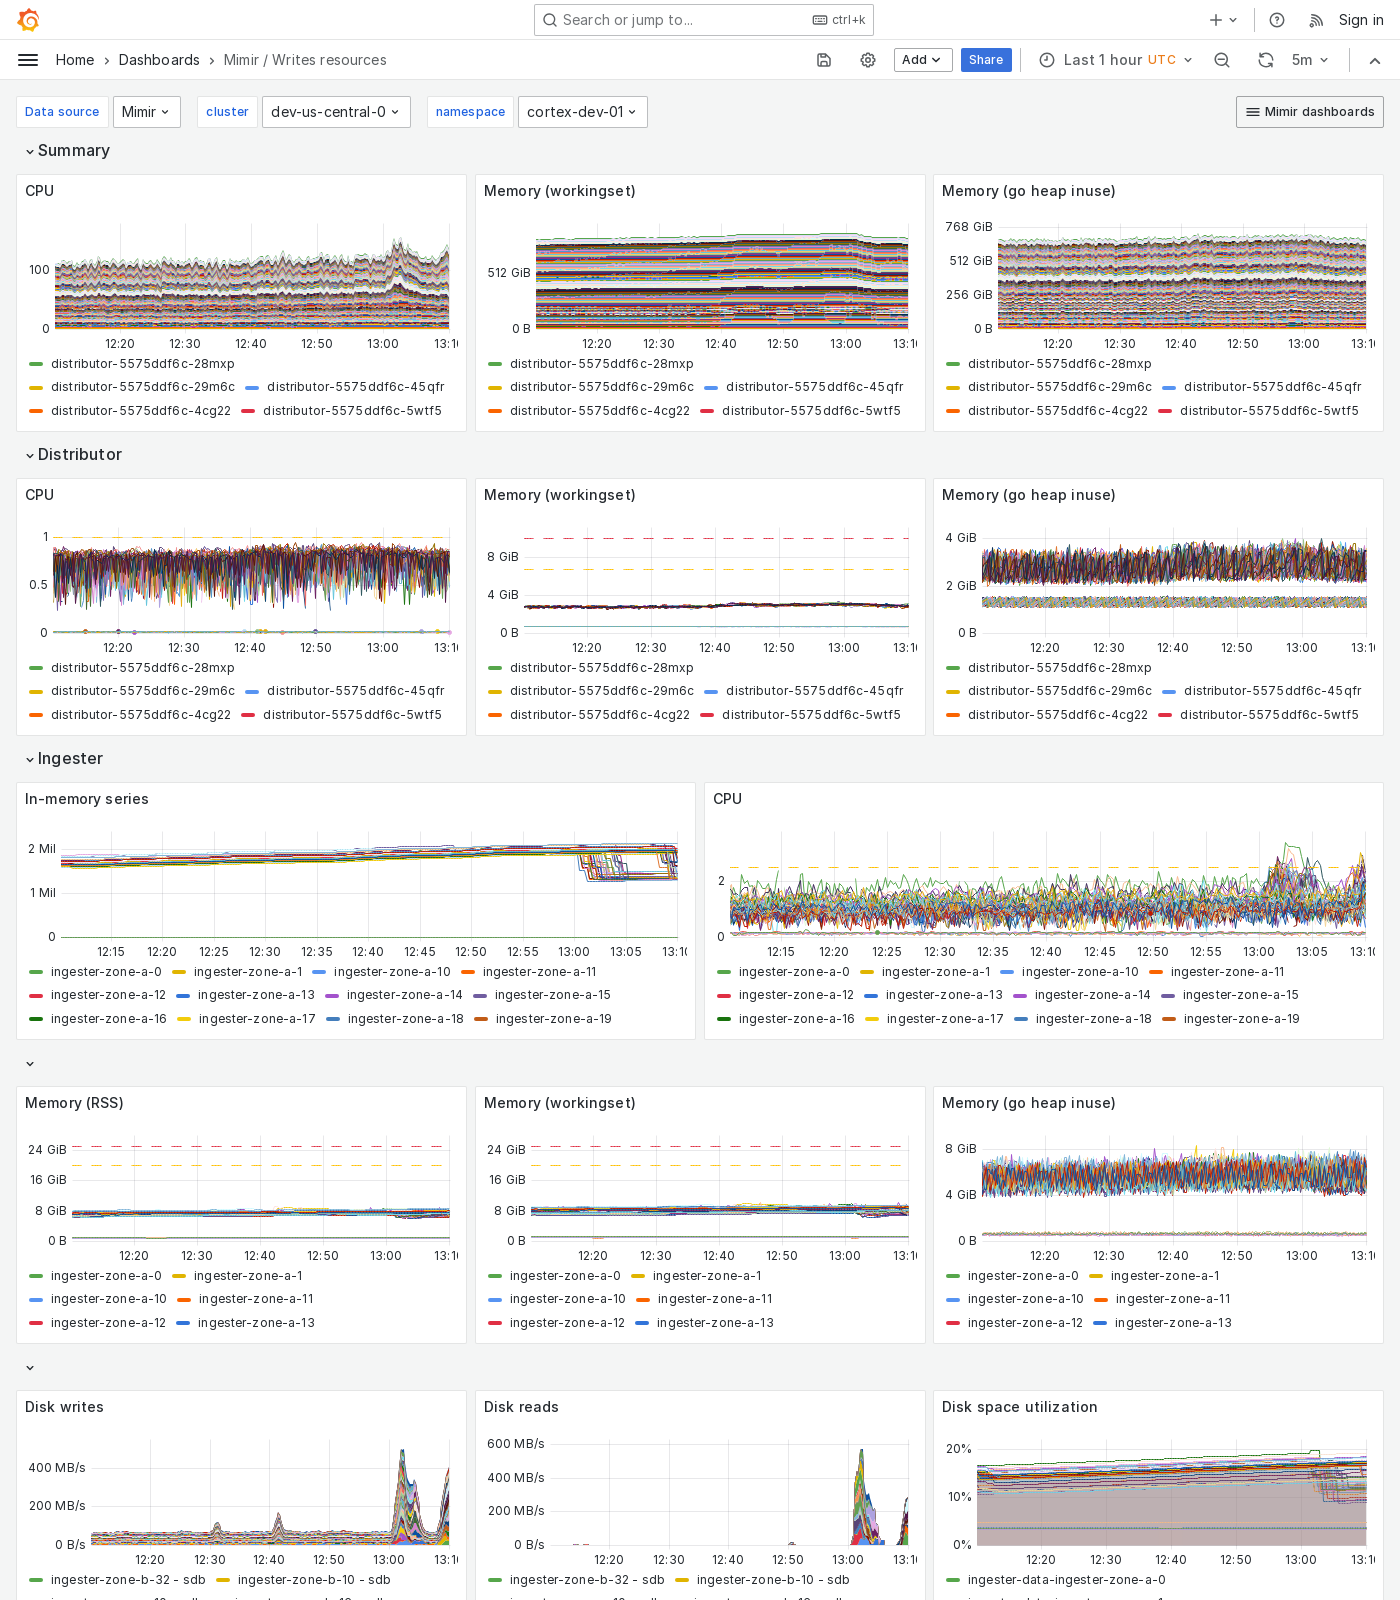
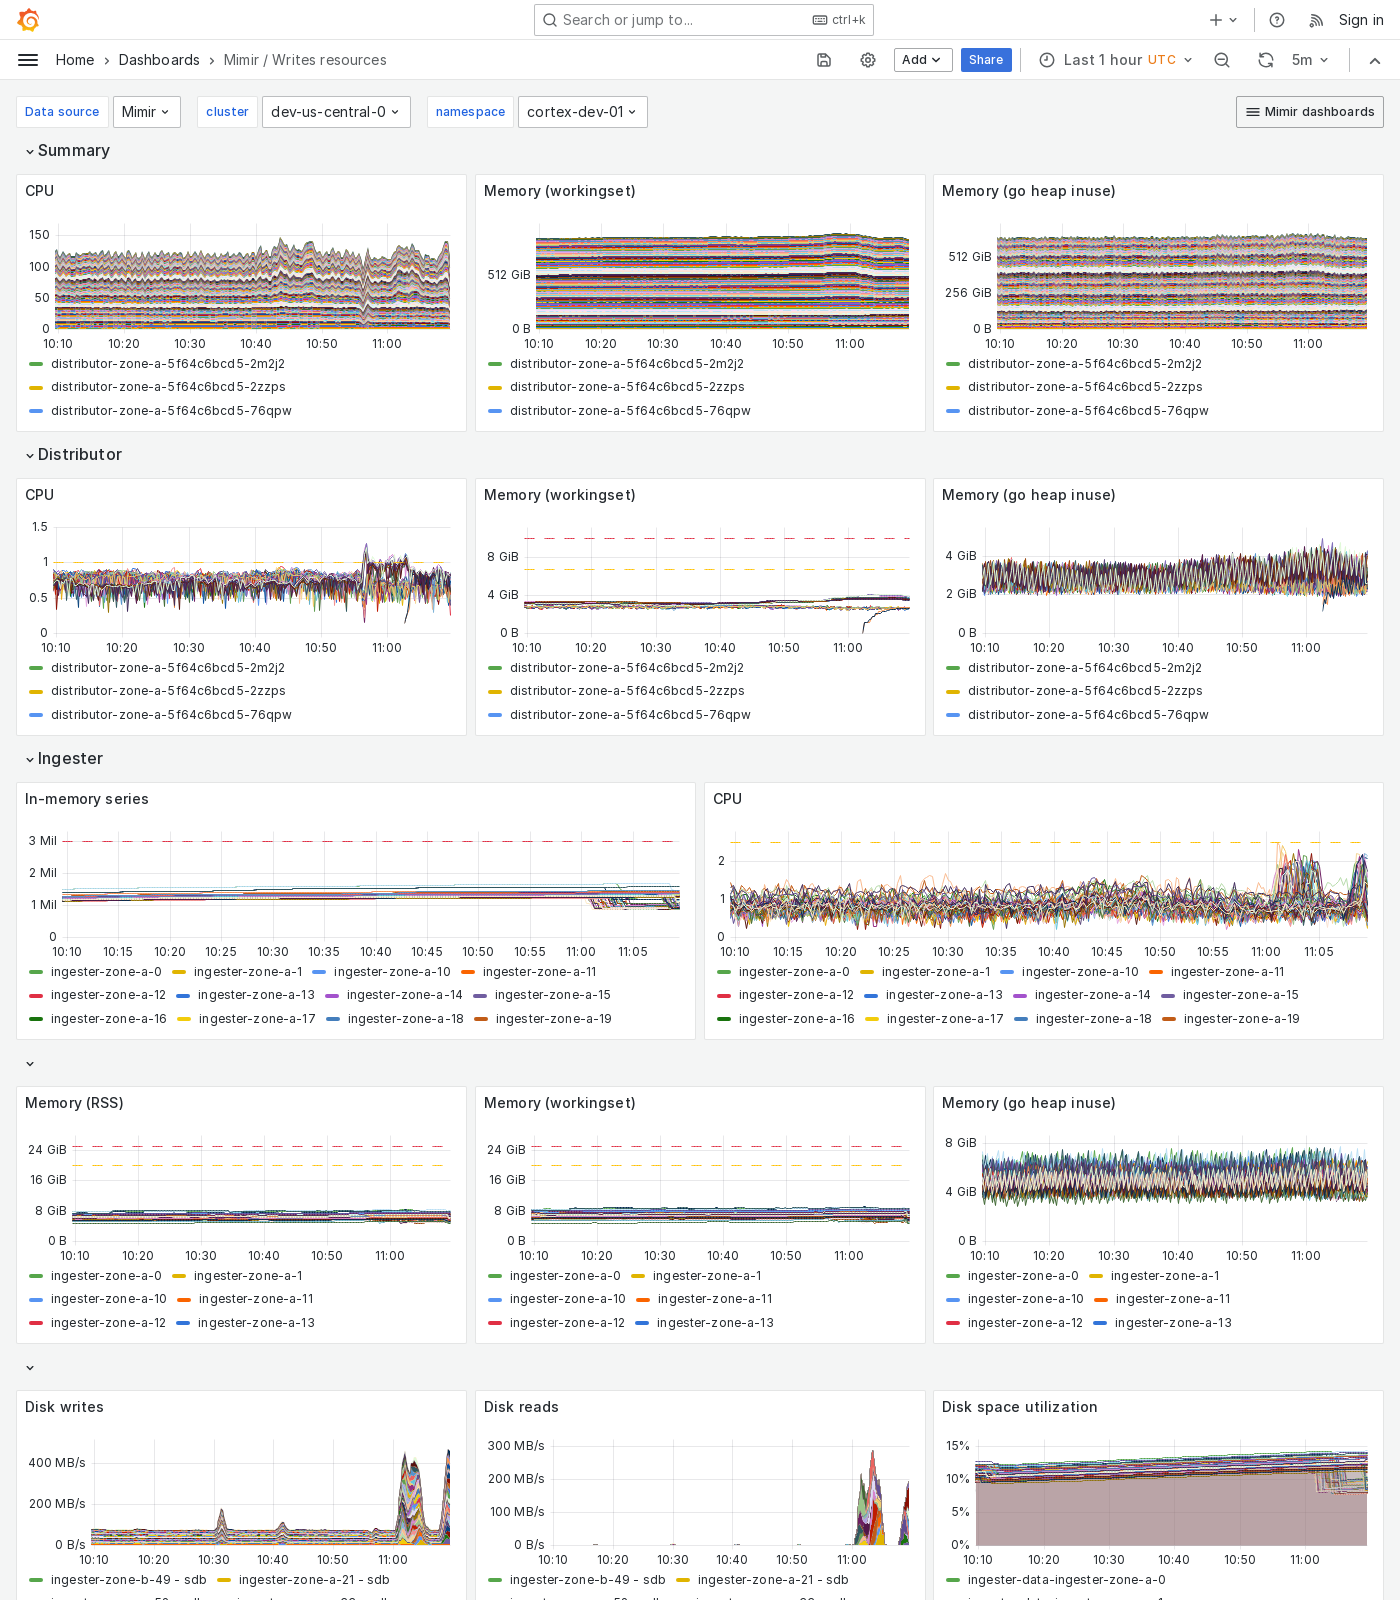
Add limit to Writes Resources > In-memory series panel

diff --git a/CHANGELOG.md b/CHANGELOG.md
@@ -41,6 +41,7 @@
 ### Mixin
 
 * [ENHANCEMENT] Rollout progress dashboard: make panels higher to fit more components. #12429
+* [ENHANCEMENT] Add `max_series` limit to Writes Resources > Ingester > In-memory series panel. #12476
 * [BUGFIX] Block-builder dashboard: fix reference to detected gaps metric in errors panel. #12401
 
 ### Jsonnet
